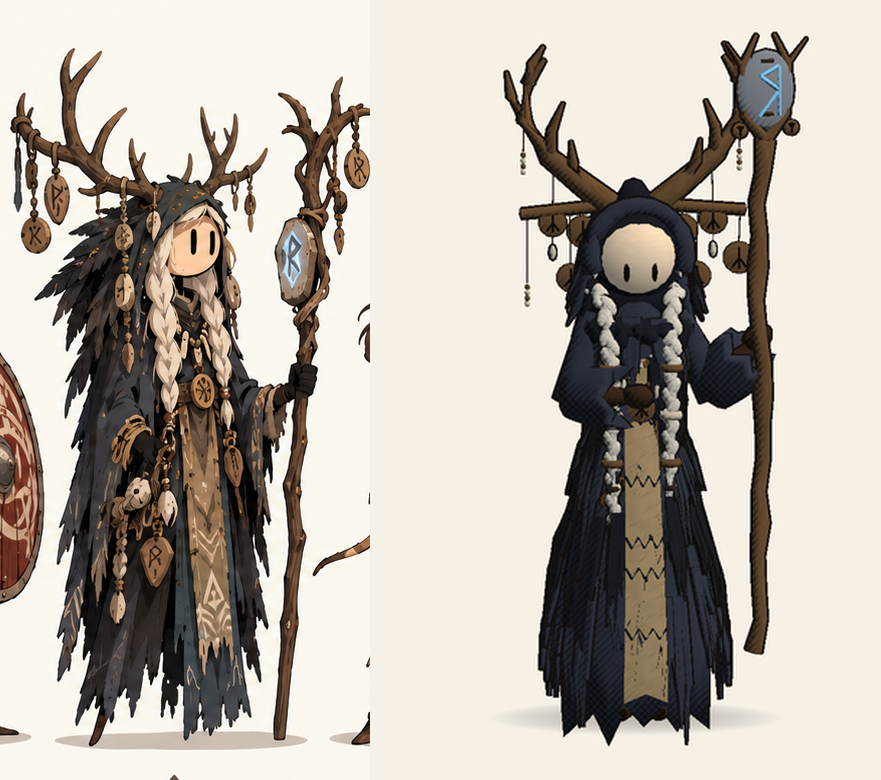
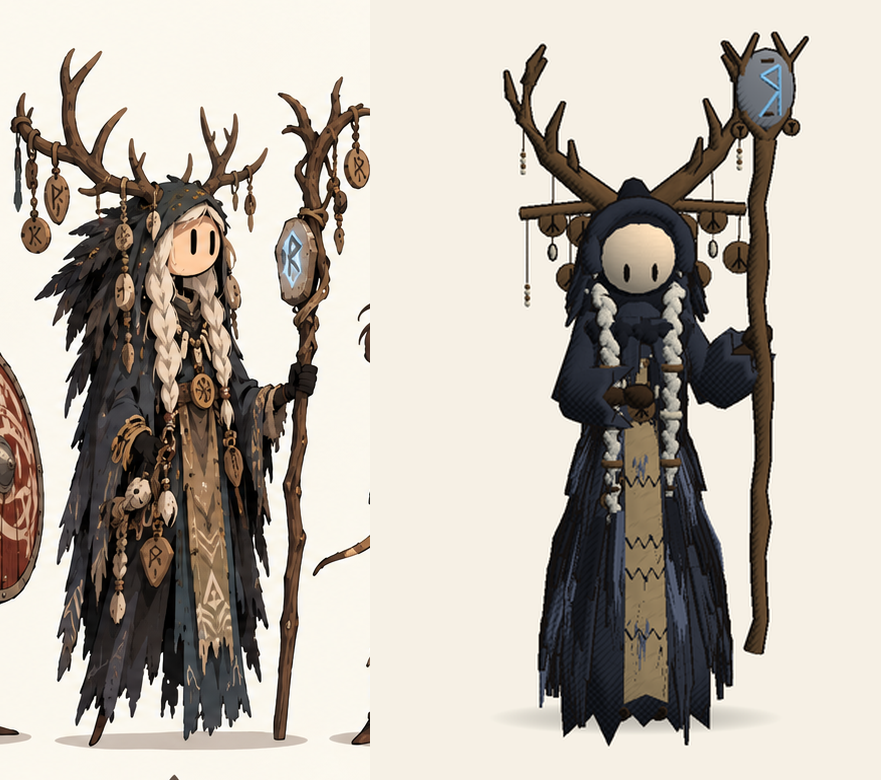
Old Seer pass 3: faded pale strips in the feather cloak
A few weathered, paler grey-blue strips hang between the dark tiers of the
cloak, breaking up the solid navy like the concept art.

Claude-Session: https://claude.ai/code/session_01SCdejJ1UF8RUxAkkFhZXGU

diff --git a/OdinsCoin/Assets/Scripts/Characters/Garments.cs b/OdinsCoin/Assets/Scripts/Characters/Garments.cs
@@ -851,6 +851,9 @@ namespace OdinsCoin
                 var colour = (t & 1) == 0 ? d.pal.cloth : d.pal.clothDark;
                 float len = t == 0 ? 0.22f * s : 0.34f * s;
                 d.Add(Joints.Body, colour, CharacterKit.Flaps(tops[t], len, 14 + t * 2, 0.95f, depth, surface, 0.01f + t * 0.004f, d.seed + 62 + t, 0.01f * s));
+                // A few faded, paler strips caught between the dark ones, like weathered feathers and old wool.
+                if (t > 0)
+                    d.Add(Joints.Body, VikingModel.Shade(d.pal.cloth, 1.7f), CharacterKit.Flaps(tops[t] - 0.04f * s, len * 0.8f, 4 + t, 0.25f, depth, surface, 0.014f + t * 0.004f, d.seed + 72 + t, 0.008f * s), false);
             }
             // Feathers bristling round the shoulders.
             d.Add(Joints.Body, d.pal.clothDark, CharacterKit.FurRing(new Vector3(0f, f.shoulderY - 0.01f * s, 0f), f.shoulderX + 0.02f * s, 0.8f, 0.05f * s, 24, 0.1f * s, d.seed + 67, 1.4f));
